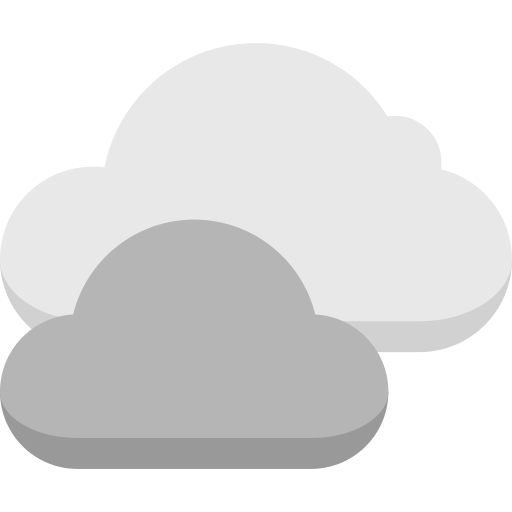
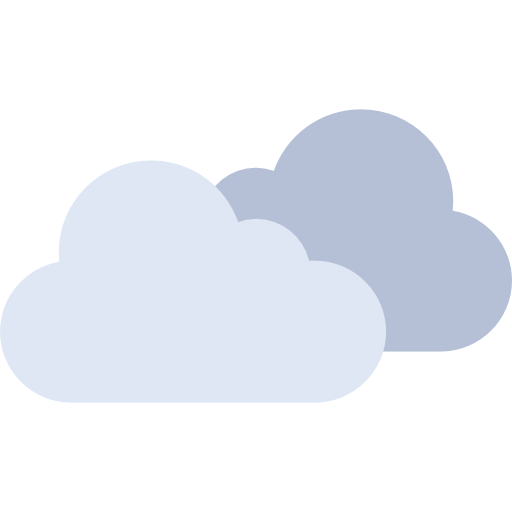
[feat] weather forecast and image update

diff --git a/src/composables/useWeather.ts b/src/composables/useWeather.ts
@@ -1,5 +1,6 @@
 import { $api } from '@/api'
-import { WeatherTimeType, WeatherCode } from '@/types/weather'
+import { WeatherTimeType, WeatherCode, ForecastData } from '@/types/weather'
+import { getNextSevenDays } from '@/utils/tools'
 
 const useWeather = () => {
   const weatherStore = useWeatherStore()
@@ -7,6 +8,7 @@ const useWeather = () => {
 
   const { updateWeatherData } = weatherStore
   const { toggleLoading } = mainStore
+  const { weatherData } = storeToRefs(weatherStore)
   const { isLoading } = storeToRefs(mainStore)
 
   const weatherMap = {
@@ -21,7 +23,7 @@ const useWeather = () => {
     [WeatherCode.DRIZZLE_DENSE]: 'Drizzle Dense',
     [WeatherCode.FREEZING_DRIZZLE_LIGHT]: 'Freezing Drizzle Light',
     [WeatherCode.FREEZING_DRIZZLE_DENSE]: 'Freezing Drizzle Dense',
-    [WeatherCode.RAIN_SLIGHT]: 'Rain Slight',
+    [WeatherCode.RAIN_SLIGHT]: 'Rain',
     [WeatherCode.RAIN_MODERATE]: 'Rain Moderate',
     [WeatherCode.RAIN_HEAVY]: 'Rain Heavy',
     [WeatherCode.FREEZING_RAIN_LIGHT]: 'Freezing Rain Light',
@@ -30,15 +32,25 @@ const useWeather = () => {
     [WeatherCode.SNOW_FALL_MODERATE]: 'Snow Fall Moderate',
     [WeatherCode.SNOW_FALL_HEAVY]: 'Snow Fall Heavy',
     [WeatherCode.SNOW_GRAINS]: 'Snow Grains',
-    [WeatherCode.RAIN_SHOWERS_SLIGHT]: 'Rain Showers Slight',
+    [WeatherCode.RAIN_SHOWERS_SLIGHT]: 'Rain',
     [WeatherCode.RAIN_SHOWERS_MODERATE]: 'Rain Showers Moderate',
     [WeatherCode.RAIN_SHOWERS_VIOLENT]: 'Rain Showers Violent',
     [WeatherCode.SNOW_SHOWERS_SLIGHT]: 'Snow Showers Slight',
     [WeatherCode.SNOW_SHOWERS_HEAVY]: 'Snow Showers Heavy',
-    [WeatherCode.THUNDERSTORM_SLIGHT]: 'Thunderstorm Slight',
-    [WeatherCode.THUNDERSTORM_WITH_HAIL_SLIGHT]: 'Thunderstorm with Hail Slight',
-    [WeatherCode.THUNDERSTORM_WITH_HAIL_HEAVY]: 'Thunderstorm with Hail Heavy'
+    [WeatherCode.THUNDERSTORM_SLIGHT]: 'Thunderstorm',
+    [WeatherCode.THUNDERSTORM_WITH_HAIL_SLIGHT]: 'Thunderstorm',
+    [WeatherCode.THUNDERSTORM_WITH_HAIL_HEAVY]: 'Thunderstorm'
   }
+
+  const sevenDaysForecast = computed(() => {
+    const days = getNextSevenDays()
+    return days.map((date, index) => ({
+      date: date,
+      weatherCode: weatherMap[weatherData.value.daily.weather_code[index]],
+      maxTemp: weatherData.value.daily.temperature_2m_max[index],
+      minTemp: weatherData.value.daily.temperature_2m_min[index]
+    }))
+  })
 
   let fetchWeatherParams = {
     latitude: 0,
@@ -69,7 +81,6 @@ const useWeather = () => {
       updateWeatherData({ ...data, name })
     } catch (error) {
       console.error('Error fetching weather data:', error)
-    } finally {
     }
   }
 
@@ -77,6 +88,8 @@ const useWeather = () => {
 
   return {
     weatherMap,
+    weatherData,
+    sevenDaysForecast,
     fetchGeocoding,
     fetchWeather
   }

diff --git a/src/components/Aside.vue b/src/components/Aside.vue
@@ -8,10 +8,12 @@
           Dashboards
         </span>
       </li>
-      <li
+      <RouterLink
         v-for="item in menuItems"
         :key="item.name"
-        class="text-white px-4 py-3 flex-left cursor-pointer hover:bg-purple-100"
+        :to="{ name: item.name }"
+        active-class="is-active"
+        class="text-white px-4 py-3 flex-left cursor-pointer hover:text-purple-100"
         @click="handleClickMenuItem(item.name)"
       >
         <div
@@ -19,28 +21,35 @@
           :class="`${item.icon}`"
         />
         <p class="pl-6 whitespace-nowrap">{{ item.name }}</p>
-      </li>
+      </RouterLink>
     </ul>
   </aside>
 </template>
 
 <script setup lang="ts">
-import { useRouter } from 'vue-router'
+import { useRouter, useRoute } from 'vue-router'
 import { Menu, MenuItem } from '@/types'
 
 const router = useRouter()
+const route = useRoute()
+
+const isSelected = computed(() => route.name)
 
 const menuItems: MenuItem[] = [
-  { name: Menu.OVERVIEW, icon: 'i-tabler-home-filled' },
+  // { name: Menu.OVERVIEW, icon: 'i-tabler-home-filled' },
   { name: Menu.PROFILE, icon: 'i-tabler-user-square-rounded' },
-  { name: Menu.WEATHER, icon: 'i-tabler-sun-high-filled' },
-  { name: Menu.STOCK, icon: 'i-tabler-chart-line' },
-  { name: Menu.PLANER, icon: 'i-tabler-calendar-smile' }
+  { name: Menu.WEATHER, icon: 'i-tabler-sun-high-filled' }
+  // { name: Menu.STOCK, icon: 'i-tabler-chart-line' },
+  // { name: Menu.PLANER, icon: 'i-tabler-calendar-smile' }
 ]
 
-const handleClickMenuItem = (name: string) => {
+const handleClickMenuItem = (name: Menu) => {
   router.push(name.toLowerCase())
 }
 </script>
 
-<style scoped></style>
+<style lang="scss" scoped>
+.is-active {
+  @apply bg-purple-100 hover:text-white;
+}
+</style>

diff --git a/src/views/weather/WeatherForecast.vue b/src/views/weather/WeatherForecast.vue
@@ -1,12 +1,29 @@
 <template>
-  <div class="weather-forecast bg-forecast text-white p-6 rounded-xl flex flex-col lg:(p-3) xl:p-6">
+  <div class="weather-forecast text-white p-6 rounded-xl flex flex-col bg-forecast lg:(p-6) xl:p-6">
     <h2 class="mb-4 flex-none">7 Days Forecast</h2>
-    <div class="p-4 flex gap-2 w-full">
-      <div v-for="item in 7" :key="item" class="flex-1 h-50">{{ item }}</div>
+    <div class="flex flex-1 gap-4 w-full">
+      <div
+        v-for="(day, index) in sevenDaysForecast"
+        :key="day.date"
+        class="px-4 py-5 rounded-xl bg-secondary/40 flex-1 h-100%"
+      >
+        <p class="mb-3 text-center">{{ index === 0 ? 'Today' : day.date }}</p>
+        <TheImg :src="day.weatherCode" img-class="mb-3 lg:(h-30 w-30)" :alt="day.weatherCode" />
+        <p class="text-center">{{ `${day.minTemp}°C / ${day.maxTemp}°C` }}</p>
+      </div>
     </div>
   </div>
 </template>
 
-<script setup lang="ts"></script>
+<script setup lang="ts">
+import { ForecastData } from '@/types/weather'
 
-<style scoped></style>
+defineProps({
+  sevenDaysForecast: {
+    type: Array as PropType<ForecastData[]>,
+    default: () => []
+  }
+})
+</script>
+
+<style lang="scss" scoped></style>

diff --git a/src/views/weather/Weather.vue b/src/views/weather/Weather.vue
@@ -11,7 +11,7 @@
       </div>
       <WeatherHighlight class="flex-1 h-90" :weather-data="weatherData" />
     </div>
-    <WeatherForecast class="flex-1" />
+    <WeatherForecast class="lg:flex-1" :seven-days-forecast="sevenDaysForecast" />
   </section>
 </template>
 
@@ -19,12 +19,9 @@
 import useWeather from '@/composables/useWeather'
 import { fetchWeatherKey } from '@/types/weather'
 
-const { fetchWeather, weatherMap } = useWeather()
+const { weatherMap, weatherData, sevenDaysForecast, fetchWeather } = useWeather()
 
 provide(fetchWeatherKey, fetchWeather)
-
-const weatherStore = useWeatherStore()
-const { weatherData } = storeToRefs(weatherStore)
 </script>
 
 <style scoped></style>

diff --git a/src/types/weather.ts b/src/types/weather.ts
@@ -1,4 +1,4 @@
-type FetchWeatherFn = (cityName: string) => Promise<any>;
+type FetchWeatherFn = (cityName: string) => Promise<any>
 
 export const fetchWeatherKey: InjectionKey<FetchWeatherFn> = Symbol('fetchWeather')
 
@@ -65,7 +65,7 @@ export interface WeatherData {
     weather_code: WeatherCode
     temperature_2m: number
     relative_humidity_2m: number
-  },
+  }
   daily: {
     weather_code: WeatherCode[]
     temperature_2m_max: number[]
@@ -75,4 +75,10 @@ export interface WeatherData {
     uv_index_max: number[]
     wind_speed_10m_max: number[]
   }
+}
+export interface ForecastData {
+  date: string
+  weatherCode: string
+  maxTemp: number
+  minTemp: number
 }

diff --git a/src/components/Header.vue b/src/components/Header.vue
@@ -1,6 +1,6 @@
 <template>
   <section class="px-8 bg-primary flex-space-between w-full">
-    <h4 class="text-purple-100 font-[Raleway-bold] font-bold">{{ route.name }}</h4>
+    <h4 class="text-white font-[Raleway-bold] font-bold">{{ route.name }}</h4>
     <div class="flex-space-around w-20">
       <div class="i-tabler-bell text-6 text-white cursor-pointer" />
       <div class="i-tabler-user-filled text-6 text-white cursor-pointer"></div>

diff --git a/src/utils/tools.ts b/src/utils/tools.ts
@@ -1,0 +1,12 @@
+export const getNextSevenDays = () => {
+  const days = []
+  const now = new Date()
+
+  for (let i = 0; i < 7; i++) {
+    const date = new Date()
+    date.setDate(now.getDate() + i)
+    const weekday = new Intl.DateTimeFormat('en', { weekday: 'short' }).format(date)
+    days.push(weekday)
+  }
+  return days
+}

diff --git a/src/assets/styles/plugins/reset.scss b/src/assets/styles/plugins/reset.scss
@@ -113,16 +113,12 @@ svg {
   display: block;
   max-width: 100%;
 }
-
 a {
-  text-decoration: none;
-  color: #007bff;
+  text-decoration: none; 
+  color: inherit;      
+  cursor: pointer;
 }
 
 a:hover {
-  text-decoration: underline;
-}
-
-a:visited {
-  color: purple;
+  text-decoration: none; 
 }

diff --git a/src/router/index.ts b/src/router/index.ts
@@ -1,6 +1,11 @@
 import { createRouter, createWebHashHistory } from 'vue-router'
 
 const routes = [
+  // {
+  //   path: '/overview',
+  //   name: 'overview',
+  //   component: () => import('@/views/overview/Profile.vue')
+  // },
   {
     path: '/profile',
     name: 'Profile',
